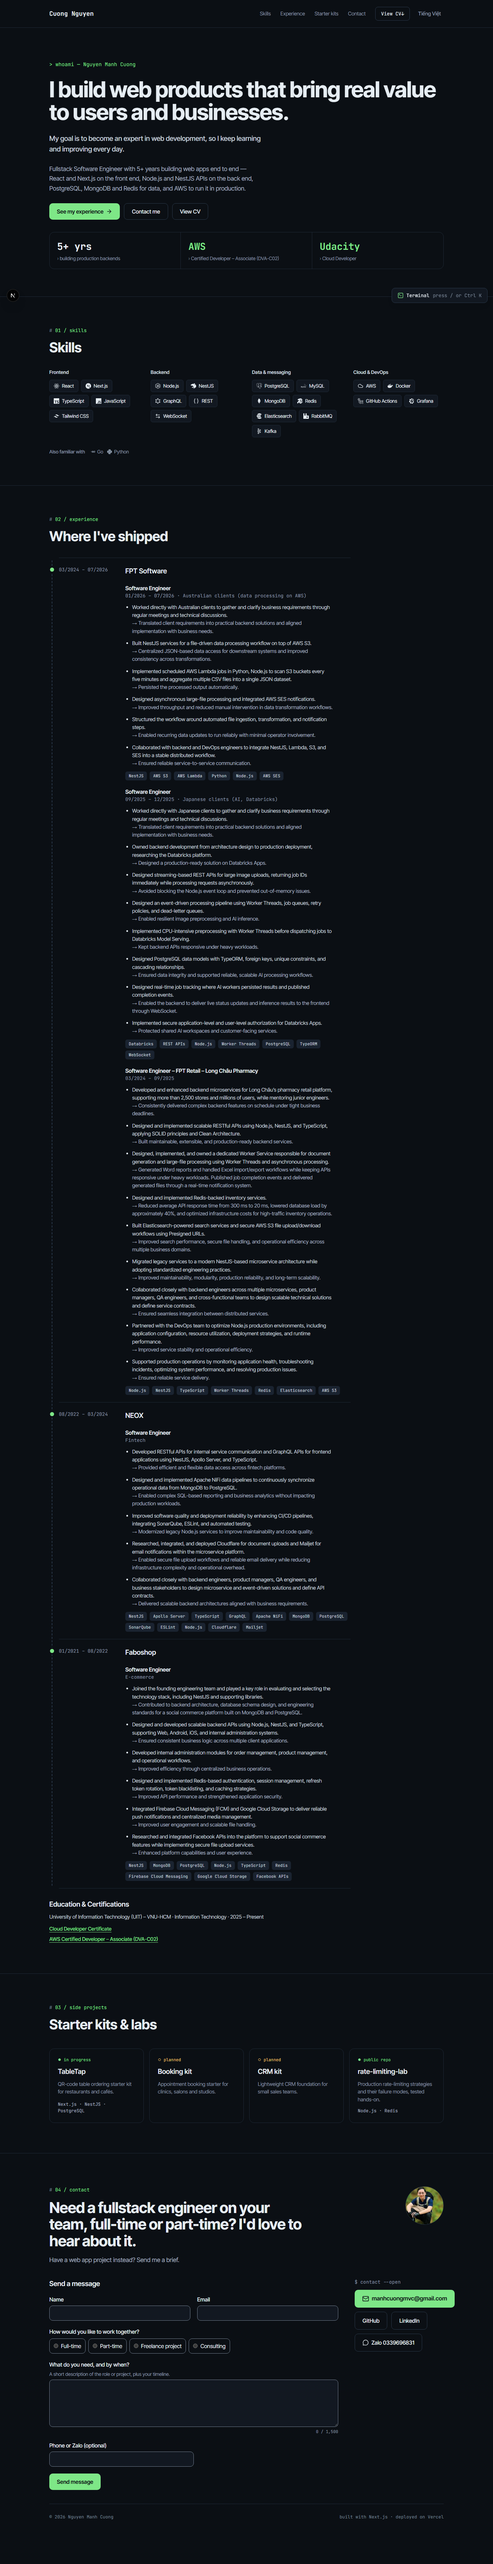
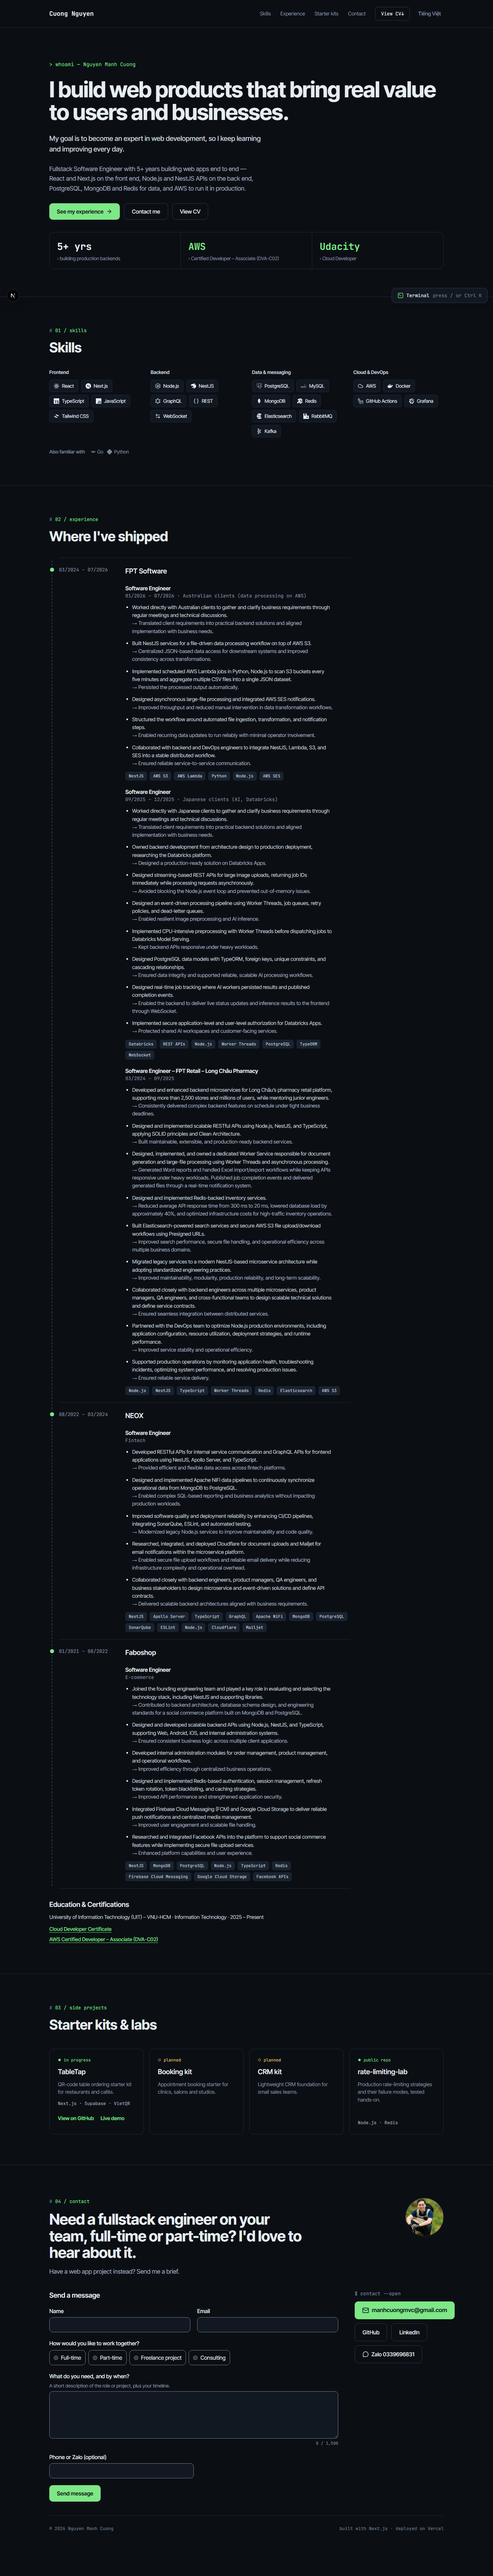
fix(kits): TableTap repo link, real stack (Next.js · Supabase · VietQR), live demo link; active kits need a real link

diff --git a/components/home/kits-section.tsx b/components/home/kits-section.tsx
@@ -4,7 +4,7 @@ import { cn } from "@/lib/utils";
 import { container, kitCard as card, SectionHeader } from "./ui";
 
 export function KitsSection() {
-  const { kits } = getContent();
+  const { kits, labels } = getContent();
   return (
     <section id="kits" aria-labelledby="kits-title" className="border-t border-border">
       <div className={`${container} flex flex-col gap-10 py-[88px]`}>
@@ -31,10 +31,35 @@ export function KitsSection() {
                 )}
               </>
             );
-            // No link until the owner provides one.
+            // No link until the owner provides one. A kit with a live demo gets two links, not a card link.
             return (
               <li key={k.name} data-part="kit" className="flex min-w-0 flex-[1_1_250px]">
-                {shown(k.href) ? (
+                {"demo" in k && k.demo ? (
+                  <div className={card}>
+                    {body}
+                    <div className="flex flex-wrap gap-x-5 gap-y-2 text-[15px] font-semibold">
+                      <a
+                        href={k.href}
+                        aria-label={`${labels.viewRepo}: ${k.name}`}
+                        className="inline-flex min-h-11 items-center text-accent underline-offset-4 hover:underline"
+                      >
+                        {labels.viewRepo}
+                      </a>
+                      <a
+                        href={k.demo}
+                        target="_blank"
+                        rel="noopener noreferrer"
+                        className="inline-flex min-h-11 items-center text-accent underline-offset-4 hover:underline"
+                      >
+                        {labels.liveDemo}
+                        <span className="sr-only">
+                          {" "}
+                          {k.name} {labels.newTab}
+                        </span>
+                      </a>
+                    </div>
+                  </div>
+                ) : shown(k.href) ? (
                   <a
                     href={k.href}
                     className={`${card} transition-colors duration-150 hover:border-border-strong`}

diff --git a/e2e/home.spec.ts b/e2e/home.spec.ts
@@ -187,3 +187,26 @@ test("Education & Certifications; Work with me parked; contact keeps every type"
     await expect(page.getByRole("radio", { name: t })).toBeVisible();
   await expect(page.locator("#contact")).toContainText("Have a web app project instead?");
 });
+
+test("TableTap kit: repo and live demo links, real stack, no nested links", async ({ page }) => {
+  await page.goto("/");
+  const card = page.locator('#kits [data-part="kit"]').filter({ hasText: "TableTap" });
+  await expect(card).toContainText("Next.js · Supabase · VietQR");
+  await expect(card).not.toContainText("NestJS");
+  await expect(card.getByRole("link", { name: "View on GitHub: TableTap" })).toHaveAttribute(
+    "href",
+    "https://github.com/lucene-nguyen/qr-ordering-starter-kit",
+  );
+  const demo = card.getByRole("link", { name: "Live demo TableTap (opens in a new tab)" });
+  await expect(demo).toHaveAttribute("href", "https://qr-ordering.lucene.cloud");
+  await expect(demo).toHaveAttribute("target", "_blank");
+  await expect(demo).toHaveAttribute("rel", "noopener noreferrer");
+  expect(await page.locator("a a").count()).toBe(0);
+  await page.goto("/vi");
+  await expect(
+    page
+      .locator('#kits [data-part="kit"]')
+      .filter({ hasText: "TableTap" })
+      .getByRole("link", { name: /^Xem demo/ }),
+  ).toHaveAttribute("href", "https://qr-ordering.lucene.cloud");
+});

diff --git a/content/locales.test.ts b/content/locales.test.ts
@@ -35,9 +35,9 @@ describe("Vietnamese copy", () => {
     );
     expect(vi.skills.groups.map((g) => g.items)).toEqual(en.skills.groups.map((g) => g.items));
     expect(vi.skills.secondary.items).toEqual(en.skills.secondary.items);
-    expect(vi.kits.items.map((k) => [k.name, k.state, k.stack, k.href])).toEqual(
-      en.kits.items.map((k) => [k.name, k.state, k.stack, k.href]),
-    );
+    expect(
+      vi.kits.items.map((k) => [k.name, k.state, k.stack, k.href, "demo" in k && k.demo]),
+    ).toEqual(en.kits.items.map((k) => [k.name, k.state, k.stack, k.href, "demo" in k && k.demo]));
     expect(vi.collabTypes.map((t) => t.id)).toEqual(en.collabTypes.map((t) => t.id));
     expect(vi.workWithMe.services.map((s) => [s.type, s.kits])).toEqual(
       en.workWithMe.services.map((s) => [s.type, s.kits]),
@@ -83,5 +83,11 @@ describe("Vietnamese copy", () => {
       (s.replace(/(\d)[.,](\d{3})/g, "$1$2").match(/\d+/g) ?? []).join(" ");
     const vis = strings(vi);
     for (const [path, text] of strings(en)) expect(digits(vis.get(path)!), path).toBe(digits(text));
+  });
+
+  it("never shows an active kit without a real link", () => {
+    for (const c of [en, vi])
+      for (const k of c.kits.items.filter((k) => k.state === "active"))
+        expect(k.href, k.name).toMatch(/^https:\/\//);
   });
 });

diff --git a/themes/neo-brutalism/stickers.test.ts b/themes/neo-brutalism/stickers.test.ts
@@ -16,7 +16,7 @@ it("black sticker text reaches 4.5:1 on every saturated fill", () => {
 it("lists each skill once and filters by it: case studies, or the kits while those are parked", () => {
   expect(new Set(skills).size).toBe(skills.length);
   expect(projectsWith("NestJS").map((p) => p.key)).toEqual(
-    features.caseStudies ? ["pharmacy-inventory", "aws-file-ingestion"] : ["TableTap"],
+    features.caseStudies ? ["pharmacy-inventory", "aws-file-ingestion"] : [],
   );
   expect(projectsWith("Nope")).toEqual([]);
 });
@@ -26,6 +26,9 @@ it.skipIf(features.caseStudies)(
   () => {
     // Unfinished stacks and links never become stickers or dead links.
     expect(skills.some((s) => s.includes("PLACEHOLDER"))).toBe(false);
-    expect(projects.filter((p) => p.href).map((p) => p.key)).toEqual(["rate-limiting-lab"]);
+    expect(projects.filter((p) => p.href).map((p) => p.key)).toEqual([
+      "TableTap",
+      "rate-limiting-lab",
+    ]);
   },
 );

diff --git a/content/vi/home.ts b/content/vi/home.ts
@@ -50,6 +50,7 @@ export const labels = {
   linkedin: "LinkedIn",
   resume: "Xem CV",
   contactMe: "Liên hệ với tôi",
+  liveDemo: "Xem demo",
   newTab: "(mở trong thẻ mới)",
 };
 
@@ -366,8 +367,9 @@ export const kits = {
       status: "đang phát triển",
       state: "active",
       description: "Starter kit gọi món tại bàn bằng mã QR cho nhà hàng và quán cà phê.",
-      stack: "Next.js · NestJS · PostgreSQL",
-      href: "[PLACEHOLDER]",
+      stack: "Next.js · Supabase · VietQR",
+      href: "https://github.com/lucene-nguyen/qr-ordering-starter-kit",
+      demo: "https://qr-ordering.lucene.cloud",
     },
     {
       name: "Booking kit",
@@ -401,6 +403,7 @@ export const kits = {
     description: string;
     stack: string;
     href: string;
+    demo?: string;
   }[],
 };
 /** Collaboration types (LEARNING-166/167): Work with me CTAs preselect one in the Contact form. */

diff --git a/content/en/home.ts b/content/en/home.ts
@@ -53,6 +53,7 @@ export const labels = {
   linkedin: "LinkedIn",
   resume: "View CV",
   contactMe: "Contact me",
+  liveDemo: "Live demo",
   newTab: "(opens in a new tab)",
 };
 
@@ -368,8 +369,9 @@ export const kits = {
       status: "in progress",
       state: "active",
       description: "QR-code table ordering starter kit for restaurants and cafés.",
-      stack: "Next.js · NestJS · PostgreSQL",
-      href: "[PLACEHOLDER]",
+      stack: "Next.js · Supabase · VietQR",
+      href: "https://github.com/lucene-nguyen/qr-ordering-starter-kit",
+      demo: "https://qr-ordering.lucene.cloud",
     },
     {
       name: "Booking kit",
@@ -402,6 +404,7 @@ export const kits = {
     description: string;
     stack: string;
     href: string;
+    demo?: string;
   }[],
 };
 /** Collaboration types (LEARNING-166/167): Work with me CTAs preselect one in the Contact form. */

diff --git a/docs/i18n/vi-review.md b/docs/i18n/vi-review.md
@@ -31,7 +31,7 @@ Still for the owner's next look: `labels.newTab` "(mở trong thẻ mới)".
 ## All strings
 
 <!-- generated from content/en/home.ts and content/vi/home.ts -->
-_533 strings: 280 translated, 253 identical in both languages ("= EN": names, technologies, links, codes, and the English experience)._
+_536 strings: 282 translated, 254 identical in both languages ("= EN": names, technologies, links, codes, and the English experience)._
 
 ### certificates
 
@@ -88,6 +88,7 @@ _533 strings: 280 translated, 253 identical in both languages ("= EN": names, te
 | `labels.linkedin` | LinkedIn | = EN |
 | `labels.resume` | View CV | Xem CV |
 | `labels.contactMe` | Contact me | Liên hệ với tôi |
+| `labels.liveDemo` | Live demo | Xem demo |
 | `labels.newTab` | (opens in a new tab) | (mở trong thẻ mới) |
 
 ### nav
@@ -390,8 +391,9 @@ _533 strings: 280 translated, 253 identical in both languages ("= EN": names, te
 | `kits.items[0].status` | in progress | đang phát triển |
 | `kits.items[0].state` | active | = EN |
 | `kits.items[0].description` | QR-code table ordering starter kit for restaurants and cafés. | Starter kit gọi món tại bàn bằng mã QR cho nhà hàng và quán cà phê. |
-| `kits.items[0].stack` | Next.js · NestJS · PostgreSQL | = EN |
-| `kits.items[0].href` | [PLACEHOLDER] | = EN |
+| `kits.items[0].stack` | Next.js · Supabase · VietQR | = EN |
+| `kits.items[0].href` | https://github.com/lucene-nguyen/qr-ordering-starter-kit | = EN |
+| `kits.items[0].demo` | https://qr-ordering.lucene.cloud | = EN |
 | `kits.items[1].name` | Booking kit | = EN |
 | `kits.items[1].status` | planned | dự kiến |
 | `kits.items[1].state` | planned | = EN |
@@ -673,6 +675,7 @@ _533 strings: 280 translated, 253 identical in both languages ("= EN": names, te
 | `contactCopy.compose.mailto` | Default email app | Ứng dụng email mặc định |
 | `contactCopy.compose.copy` | Copy message | Sao chép tin nhắn |
 | `contactCopy.compose.copied` | Copied | Đã sao chép |
+| `contactCopy.compose.long` | Long message: if the draft comes out cut off, use Copy message and paste it into your email. | Tin nhắn dài: nếu bản nháp bị cắt bớt, hãy dùng Sao chép tin nhắn rồi dán vào email. |
 | `contactCopy.compose.copyFailed` | Couldn't copy. Select the preview text and copy it. | Không sao chép được. Hãy chọn đoạn xem trước và sao chép. |
 | `contactCopy.compose.close` | Close | Đóng |
 | `contactCopy.counter(…)` | 3 / 5 | = EN |
